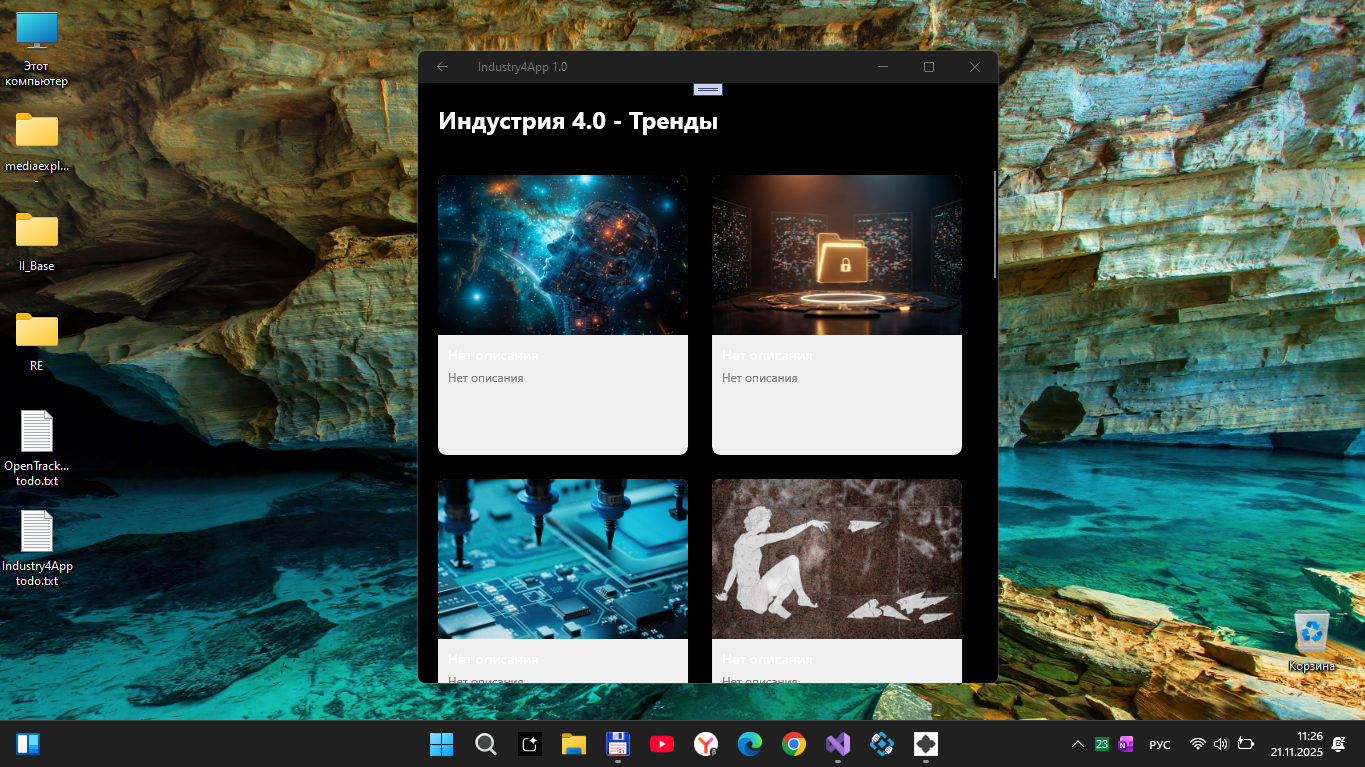
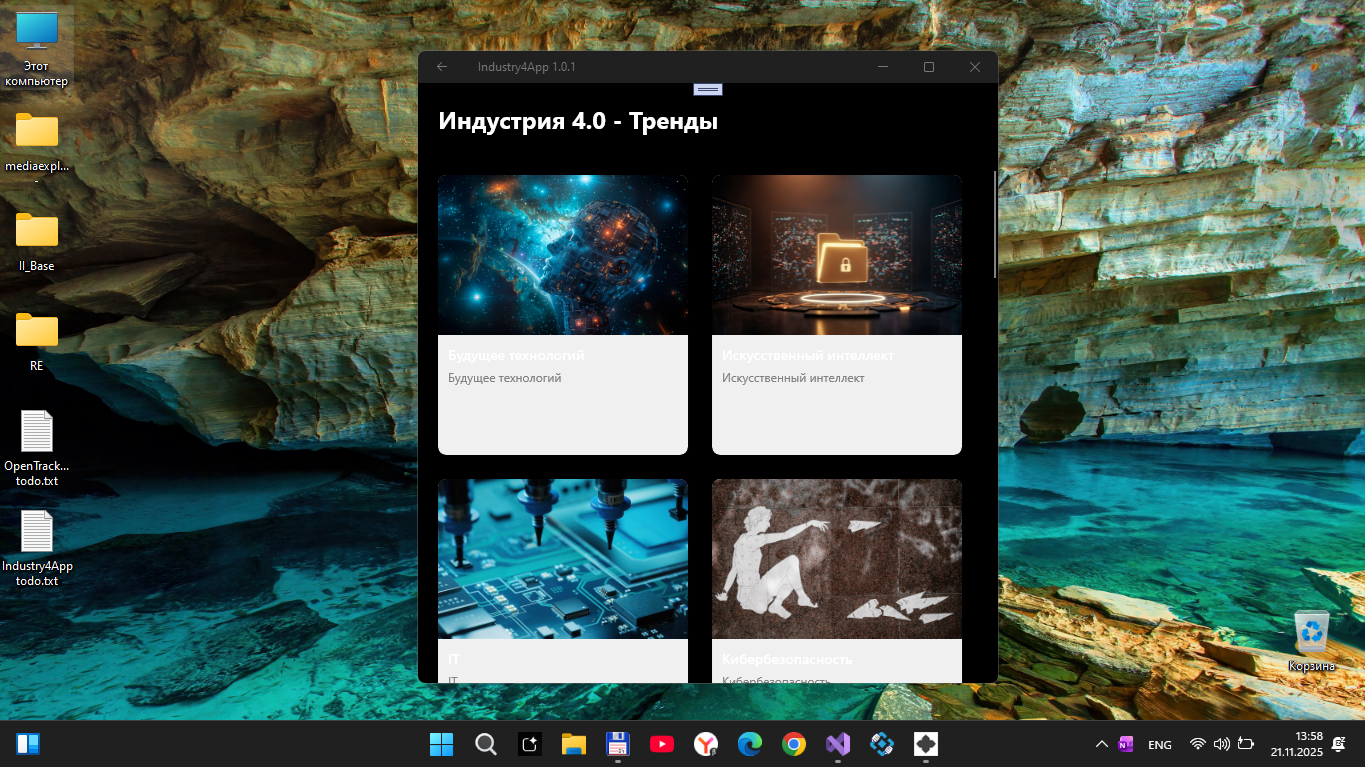
.

diff --git a/Src/Industry4App/MainPage.xaml.cs b/Src/Industry4App/MainPage.xaml.cs
@@ -57,7 +57,7 @@ namespace Industry4App
                         var item = new NewsItem();
 
                         // 1. Ищем ссылку и заголовок
-                        var linkNode = article.Descendants("a").FirstOrDefault();
+                        var linkNode = article.Descendants("a").FirstOrDefault(n => n.GetAttributeValue("class", "").Contains("js-item-link"));
                         if (linkNode != null)
                         {
                             item.ArticleUrl = linkNode.GetAttributeValue("href", "");
@@ -69,9 +69,9 @@ namespace Industry4App
 
                             // Пытаемся найти заголовок внутри ссылки
                             var titleNode = linkNode.Descendants("span")
-                                .FirstOrDefault(n => n.GetAttributeValue("class", "").Contains("title"));
+                                .FirstOrDefault(n => n.GetAttributeValue("class", "").Contains("g-inline-text-badges__text"));
 
-                            // Если нет span с title, берем просто текст
+                            // Если нет span с g-inline-text-badges__text, берем просто текст
                             item.Title = titleNode?.InnerText?.Trim() ?? linkNode.InnerText?.Trim();
                         }
                         else
@@ -128,11 +128,20 @@ namespace Industry4App
                         }
 
                         // 3. Ищем краткое описание (Subtitle)
-                        var subtitleNode = article.Descendants("span")
-                             .FirstOrDefault(n => n.GetAttributeValue("class", "").Contains("subtitle") ||
-                                                n.GetAttributeValue("class", "").Contains("item__subtitle") ||
-                                                n.GetAttributeValue("class", "").Contains("item__text"));
-                        item.Summary = subtitleNode?.InnerText?.Trim() ?? "Нет описания";
+                        // На сайте RBC в карточках новостей краткое описание часто отсутствует,
+                        // поэтому будем использовать категорию статьи как дополнительную информацию
+                        var categoryNode = article.Descendants("div")
+                            .FirstOrDefault(n => n.GetAttributeValue("class", "").Contains("item__category"));
+                        
+                        if (categoryNode != null)
+                        {
+                            var categoryLink = categoryNode.Descendants("a").FirstOrDefault();
+                            item.Summary = categoryLink?.InnerText?.Trim() ?? "Нет категории";
+                        }
+                        else
+                        {
+                            item.Summary = "Нет описания";
+                        }
 
                         if (!string.IsNullOrEmpty(item.Summary))
                         {

diff --git a/Readme.md b/Readme.md
@@ -1,4 +1,4 @@
-# Industry4App v1.0 pre-alpha - ветка master
+# Industry4App v1.0.1 pre-alpha - ветка master
 
 ![](/Images/logo.png)
 
@@ -11,6 +11,7 @@ UWP-приложения Industry4App - это что-то вроде ридер
 ## Скриншотики
 ![](/Images/sshot01.png)
 ![](/Images/sshot02.png)
+![](/Images/sshot03.png)
 
 ## Тех. моментики
 Я использую Win. SDK 19041 и Min. Win. SDK 10240, чтобы обеспечить совместимость с ранней-сборкой 10240 ретро-ОС Windows 10 Mobile. 
